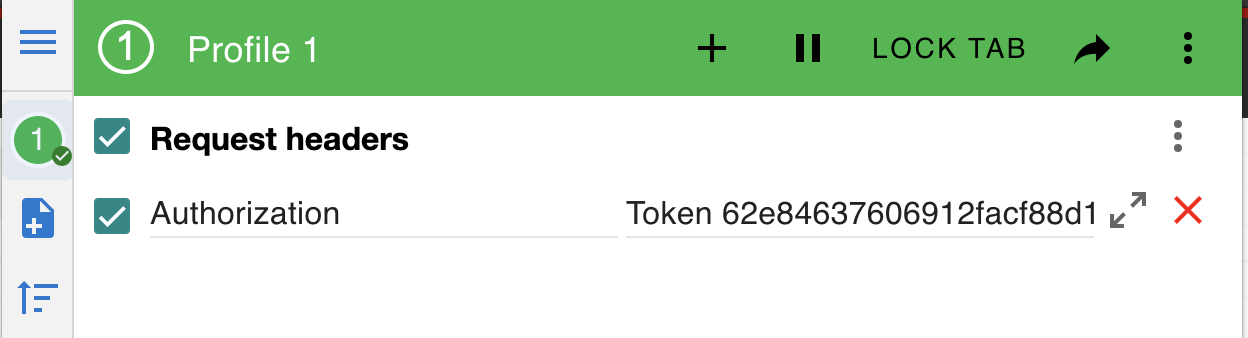
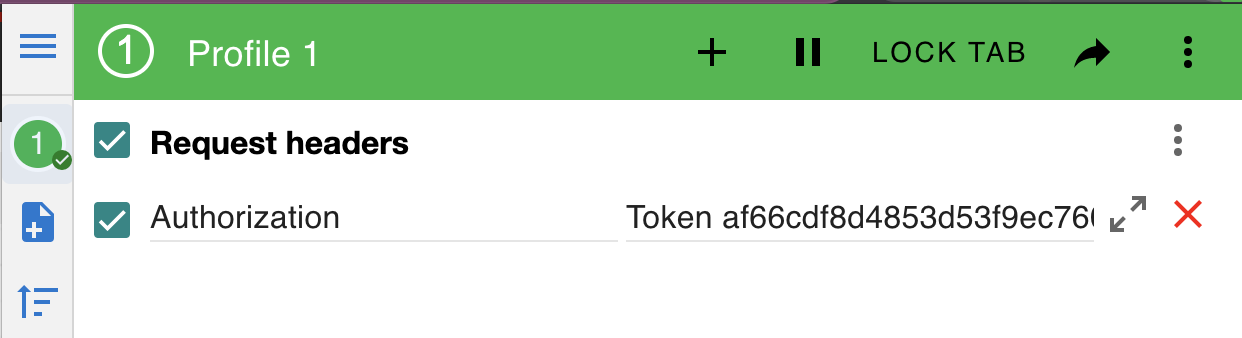
added context when setting the authorization token

diff --git a/server/README.md b/server/README.md
@@ -56,7 +56,7 @@ Sample Token
 
 ```
 {
-    "key": "99def123123123123d88e15771e3a8b43e71f"
+    "key": "af66cdf8d4853d53f9ec760170b661130bf114ea"
 }
 ```
 
